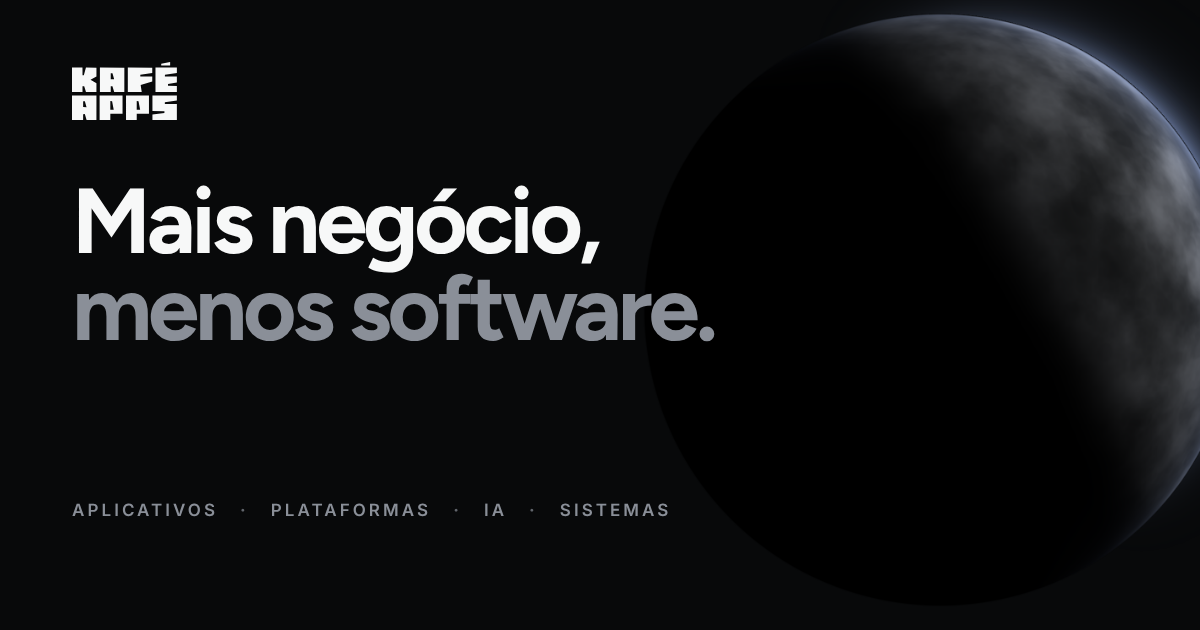
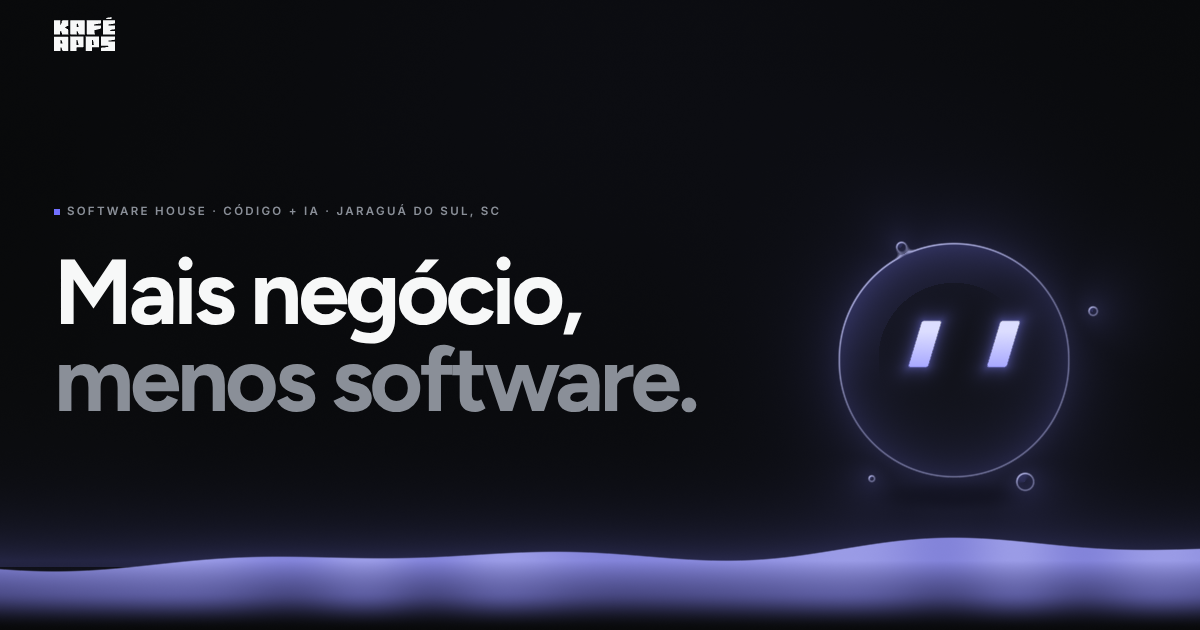
Mascote de volta, em vidro escuro no estilo do Zirtuno, com a onda de luz
- Mascote religado (site.mascot = true), com as reações e as
  transformações nas formas de cada seção.
- Acabamento novo no motor: corpo de vidro quase preto e translúcido,
  que clareia perto da borda, linha fina de luz no contorno, reflexo
  suave em cima, halo em volta e olhos "//" que brilham. As formas das
  seções usam o mesmo vidro. Cores: roxo #7c7cff e lilás #c9cbff.
- Onda de luz roxa no fim da abertura da home, com o mascote mergulhado
  nela e o "Diga oi" por cima; no celular, a onda fica logo embaixo dele.
- "(08) Quem somos" mantém a tela de entregas desde 2021, na versão roxa.
- Imagem de compartilhamento e README atualizados.

Claude-Session: https://claude.ai/code/session_01EDSy16zp7YeDkangh4hHvN

diff --git a/src/scripts/liquid.ts b/src/scripts/liquid.ts
@@ -125,7 +125,7 @@ uniform vec3 uPtr;     // cursor x, y, ativo
 uniform vec4 uHorizon; // faixa de café: topo (y), fundo (y), x do mascote, onda extra embaixo dele
 uniform vec4 uBox;     // caixa que contém o líquido (min x, min y, max x, max y)
 uniform vec3 uTint;    // cor do líquido
-uniform vec3 uInk;     // cor dos olhos
+uniform vec3 uInk;     // cor clara: olhos, linha de luz do contorno e crista da onda
 uniform vec3 uBg;      // cor do fundo da página
 uniform sampler2D uSmoke;
 
@@ -292,48 +292,59 @@ void main() {
 	// Sombra do mascote no chão (encolhe quando ele pula).
 	if (uShadow.w > 0.001) {
 		vec2 sp = (p - uShadow.xy) / vec2(uShadow.z, uShadow.z * 0.2);
-		col *= 1.0 - 0.55 * uShadow.w * (1.0 - smoothstep(0.15, 1.0, length(sp)));
+		col *= 1.0 - 0.35 * uShadow.w * (1.0 - smoothstep(0.15, 1.0, length(sp)));
 	}
 	float depth = uHorizon.x - p.y;
 	float band = max(uHorizon.x - uHorizon.y, 0.001);
 	float surfOn = step(uHorizon.y + 0.001, uHorizon.x);
-	col += uTint * exp(-abs(p.y - uHorizon.x) * 9.0) * 0.12 * surfOn * step(-0.02, -depth);
+	col += uTint * exp(-abs(p.y - uHorizon.x) * 7.0) * 0.18 * surfOn * step(-0.02, -depth);
+
+	// Halo de luz em volta das formas (o vidro "acende" o fundo de leve).
+	col += uTint * exp(-max(d, 0.0) / (uCss * 18.0)) * 0.07 * opacity * step(0.0, d);
 
 	if (d < px * 2.0) {
-		// 2D bem acabado: cor chapada, um degradê de cima para baixo e uma
-		// borda de luz do lado de cima (e sombra leve embaixo). Sem volume 3D.
-		float edgeW = uCss * 5.0;
-		float boxH = max(uBox.w - uBox.y, 0.001);
-		float top = clamp((p.y - uBox.y) / boxH, 0.0, 1.0);
-		// Quanto do ponto é superfície (e não forma): define o degradê e o sumiço para baixo.
+		// Vidro escuro, no estilo do Zirtuno: corpo quase preto e translúcido, que
+		// clareia perto da borda, uma linha fina de luz no contorno, um reflexo
+		// suave em cima e, embaixo, a onda de luz em que o mascote fica mergulhado.
+		float inside = max(-d, 0.0);
 		float isSurf = smoothstep(-0.03, 0.03, dShape - dSurf);
-		vec3 fill = uTint * mix(0.84 + 0.16 * top, 1.0 - 0.4 * smoothstep(0.0, band, depth), isSurf);
-		float reach = uExpr2.z > 0.01 ? 4.0 : 1.5;
-		if (d > -edgeW * reach) {
+		// Direção da borda (para a luz bater mais em cima, à esquerda).
+		float facing = 0.0;
+		if (inside < uCss * 40.0) {
 			float e = px;
 			float dx = smin(near < 0.45 ? field(p + vec2(e, 0.0)) : 8.0, surface(p + vec2(e, 0.0)), 0.08);
 			float dy = smin(near < 0.45 ? field(p + vec2(0.0, e)) : 8.0, surface(p + vec2(0.0, e)), 0.08);
-			vec2 grad = vec2(dx - d, dy - d);
-			vec2 n = grad / max(length(grad), 1e-5);
-			float facing = dot(n, normalize(vec2(-0.45 + uLight.x * 0.3, 0.9)));
-			float rim = 1.0 - smoothstep(0.0, edgeW, -d);
-			fill += vec3(0.16) * max(facing, 0.0) * rim;
-			fill *= 1.0 - 0.16 * max(-facing, 0.0) * rim;
-			// Gotas, mascote e café ganham o reflexo curvo de desenho animado, rente à borda de cima.
-			float glossy = max(uExpr2.z, isSurf);
-			if (glossy > 0.01) {
-				float inside = -d;
-				float shine = smoothstep(edgeW * 1.2, edgeW * 1.8, inside) * (1.0 - smoothstep(edgeW * 2.4, edgeW * 3.4, inside));
-				fill = mix(fill, vec3(1.0, 0.97, 0.92), shine * smoothstep(0.6, 0.95, facing) * 0.6 * glossy);
-			}
+			vec2 n = vec2(dx - d, dy - d);
+			n /= max(length(n), 1e-5);
+			facing = dot(n, normalize(vec2(-0.5 + uLight.x * 0.3, 0.86)));
 		}
-		float alpha = (1.0 - smoothstep(-px, px, d)) * mix(opacity, 1.0 - smoothstep(band * 0.55, band, depth), isSurf);
+		float fresnel = exp(-inside / (uCss * 30.0));
+		vec3 glass = uBg + uTint * (0.035 + 0.2 * fresnel) + vec3(0.015, 0.016, 0.02) * (1.0 - fresnel);
+		// Reflexo largo e suave do lado de cima.
+		glass += uTint * 0.12 * smoothstep(0.2, 0.95, facing) * exp(-inside / (uCss * 60.0));
+		// Linha de luz no contorno (mais forte em cima).
+		float rimLine = 1.0 - smoothstep(uCss * 0.7, uCss * 2.6, inside);
+		glass = mix(glass, uInk, rimLine * (0.45 + 0.4 * max(facing, 0.0)));
+
+		// A onda: líquido de luz, mais claro na crista, com reflexos que correm.
+		float crest = exp(-max(depth, 0.0) * 10.0);
+		float ripple = 0.5 + 0.5 * sin(p.x * 9.0 - uTime * 1.1 + sin(p.x * 3.1 + uTime * 0.6) * 1.8);
+		vec3 wave = uTint * (0.28 + 0.5 * crest + 0.18 * ripple * smoothstep(0.0, 0.2, depth) * (1.0 - smoothstep(0.2, 0.5, depth)));
+		wave = mix(wave, uInk, crest * 0.55 * (0.6 + 0.4 * ripple));
+		vec3 fill = mix(glass, wave, isSurf);
+
+		float coverage = 1.0 - smoothstep(-px, px, d);
+		float alpha = coverage * mix(opacity, 1.0 - smoothstep(band * 0.45, band, depth), isSurf);
 		col = mix(col, fill, alpha);
 	}
 
-	if (uEye.w > 0.01 && length(p - uEye.xy) < uEye.z * 1.4) {
+	// Olhos que brilham: degradê do claro (em cima) para a cor da forma, com halo.
+	if (uEye.w > 0.01 && length(p - uEye.xy) < uEye.z * 1.6) {
 		float ed = eyes(p);
-		col = mix(col, uInk, (1.0 - smoothstep(-px, px, ed)) * uEye.w);
+		float t = clamp((p.y - uEye.xy.y) / (uEye.z * 0.5) + 0.5, 0.0, 1.0);
+		vec3 eyeCol = mix(uTint * 1.1, mix(uInk, vec3(1.0), 0.35), t);
+		col += uTint * exp(-max(ed, 0.0) / (uEye.z * 0.06)) * 0.35 * uEye.w * step(0.0, ed);
+		col = mix(col, eyeCol, (1.0 - smoothstep(-px, px, ed)) * uEye.w);
 	}
 
 	col += (hash(gl_FragCoord.xy + fract(uTime * 7.0) * 100.0) - 0.5) / 255.0;
@@ -1842,16 +1853,20 @@ export function initLiquid(canvas: HTMLCanvasElement) {
 
 	/** Faixa de café no fim da seção marcada com data-horizon (o mascote nasce dela). */
 	function horizon(): [number, number, number, number] {
-		if (!horizonEl || solid) return [0, 0, 0, 0];
-		const r = horizonEl.getBoundingClientRect();
-		if (r.bottom < -40 || r.top > cssH) return [0, 0, 0, 0];
+		// No estilo sólido, a onda de luz fica só na abertura da home.
+		if (!horizonEl || (solid && !horizonEl.classList.contains('hero'))) return [0, 0, 0, 0];
 		const portrait = aspect < 0.9;
+		// No celular, a onda fica logo embaixo do mascote (data-horizon-anchor), e não no fim da seção.
+		const anchorEl = portrait ? horizonEl.querySelector<HTMLElement>('[data-horizon-anchor]') : null;
+		const r = (anchorEl ?? horizonEl).getBoundingClientRect();
+		if (r.bottom < -40 || r.top > cssH) return [0, 0, 0, 0];
 		const bottom = 1 - (r.bottom / cssH) * 2;
 		// data-horizon="0.1": altura da faixa (em unidades do WebGL) acima do fim da seção.
 		const custom = horizonEl.dataset.horizon;
 		const lift = custom ? Number(custom) : portrait ? 0.2 : 0.22;
 		const mascotHere = Boolean(formation.def.eyes) && eye.alpha > 0.05;
-		const bump = mascotHere ? 0.07 * eye.alpha : 0;
+		// A onda sobe um pouco embaixo do mascote, que fica mergulhado nela.
+		const bump = mascotHere ? 0.08 * eye.alpha : 0;
 		return [bottom + lift, bottom, mascotHere ? slots[0].v[0] : 0, bump];
 	}
 

diff --git a/src/styles/global.css b/src/styles/global.css
@@ -48,10 +48,11 @@
 	--black: var(--bg);
 	--white: var(--text);
 
-	/* Mascote (desligado por padrão: veja "mascot" em src/data/site.ts): cor do
-	   corpo e dos olhos "//", e o fundo desenhado pelo WebGL. Hex de 6 dígitos. */
-	--liquid: #f4a957;
-	--liquid-ink: #1b120c;
+	/* Mascote e formas, em vidro escuro como o do Zirtuno (ligue ou desligue em
+	   src/data/site.ts): a cor da luz do vidro e da onda, e a cor clara dos olhos
+	   "//", do contorno e da crista da onda. Hex de 6 dígitos. */
+	--liquid: #7c7cff;
+	--liquid-ink: #c9cbff;
 	--liquid-bg: #08090a;
 
 	--gray-100: #f7f8f8;
@@ -640,7 +641,7 @@ ol[role='list'] {
 	width: 4px;
 	height: 11px;
 	border-radius: 1px;
-	background: var(--text);
+	background: var(--accent);
 	transform: skewX(-16deg);
 	animation: talk-blink 4s infinite;
 }

diff --git a/src/data/site.ts b/src/data/site.ts
@@ -23,10 +23,10 @@ export const site = {
 	foundingYear: 2021,
 	/**
 	 * Mascote interativo: o líquido em WebGL com olhos "//", reações, falas e as
-	 * formas que ele vira em cada seção. Desligado, o topo da home mostra o planeta
-	 * e as seções mostram telas de produto. Para trazer o mascote de volta, use true.
+	 * formas que ele vira em cada seção. Desligado (false), o topo da home mostra
+	 * um planeta e as seções mostram telas de produto.
 	 */
-	mascot: false,
+	mascot: true,
 	ceo: 'Danilo Fonseca',
 	location: {
 		city: 'Jaraguá do Sul',

diff --git a/README.md b/README.md
@@ -4,22 +4,22 @@ Site institucional da [Kafé Apps](https://kafeapps.com.br): software house de J
 
 Feito com [Astro](https://astro.build), gera um site 100% estático (HTML, CSS e um pouco de JavaScript): rápido, bom para SEO e fácil de hospedar em qualquer lugar.
 
-## Identidade visual: Linear nas cores, SpaceX no topo, telas de produto nas seções
+## Identidade visual: cores do Linear e mascote de vidro no estilo do Zirtuno
 
-- **Cores do [Linear](https://linear.app)**, com os mesmos valores que o site deles usa: fundo `#08090a`, texto `#f7f8f8`, cinzas `#d0d6e0`, `#8a8f98` e `#62666d`, bordas brancas a 8% e 12%, botão principal em pílula clara (`#e5e5e6`, texto `#08090a`) e o roxo da marca (`#5e6ad2`) com o destaque `#7170ff` nos detalhes. Os títulos têm dois tons: branco e, no trecho entre `<em>`, cinza.
+- **Cores do [Linear](https://linear.app)**, com os mesmos valores que o site deles usa: fundo `#08090a`, texto `#f7f8f8`, cinzas `#d0d6e0`, `#8a8f98` e `#62666d`, bordas brancas a 8% e 12%, botão principal em pílula clara (`#e5e5e6`, texto `#08090a`) e o roxo da marca (`#5e6ad2`) com o destaque `#7170ff`. Os títulos têm dois tons: branco e, no trecho entre `<em>`, cinza.
 - O cinza `#62666d`, que o Linear usa em rótulos minúsculos, não passa no contraste mínimo para texto; aqui ele fica só em detalhes, e os textos secundários usam `#8a8f98`.
-- **Topo da home: um planeta** escuro com luz realista, como na SpaceX (`src/components/Planet.astro` e `src/scripts/planet.ts`). Ele gira devagar e a luz acompanha o cursor de leve; com "reduzir movimento" fica parado, e sem WebGL aparece a imagem `public/planeta.jpg`. O mesmo planeta aparece na página 404.
-- **Seções: telas de produto** no estilo do Linear (`src/components/Figure.astro`): roadmap, painel de métricas, revisão de código, agente de IA, sprint nas 4Ds, histórico de entregas, pré-orçamento, app, automações e design system. Cada seção escolhe a sua em `src/data/figures.ts`. São ilustrações: ficam escondidas dos leitores de tela.
-- **Pré-orçamento sem mascote:** a Kafeína fala dentro do cartão do formulário e, no computador, um painel ao lado resume as respostas.
+- **Mascote e ilustrações em vidro escuro**, no mesmo design do mascote do Zirtuno: corpo quase preto e translúcido que clareia perto da borda, uma linha fina de luz no contorno, reflexo suave em cima, olhos "//" que brilham com halo e, na abertura da home, uma onda de luz roxa em que o mascote fica mergulhado (com o "Diga oi" por cima dela). As formas que ele vira em cada seção usam o mesmo vidro.
+- No "(08) Quem somos" da home, no lugar da forma do líquido, fica a tela "Entregas em produção desde 2021" (`src/components/Figure.astro`).
+- Cores do vidro no topo de `src/styles/global.css`: `--liquid` (luz do vidro e da onda, `#7c7cff`), `--liquid-ink` (olhos, contorno e crista da onda, `#c9cbff`) e `--liquid-bg` (fundo desenhado pelo WebGL, igual a `--bg`).
 
-### O mascote (desligado, guardado para voltar)
+### Ligar e desligar o mascote
 
-O mascote interativo continua no código, inteiro: o líquido em WebGL com os olhos "//", reações, falas, o "Diga oi" e as formas que ele vira em cada seção. Para trazê-lo de volta, troque `mascot: false` por `mascot: true` em `src/data/site.ts`. As cores dele ficam em `--liquid` e `--liquid-ink`, no topo de `src/styles/global.css` (hoje com a crema `#f4a957`, a versão aprovada).
+O mascote fica ligado em `mascot: true`, em `src/data/site.ts`. Com `false`, o topo da home mostra um planeta (`src/components/Planet.astro`) e as seções mostram telas de produto (`src/components/Figure.astro`, escolhidas em `src/data/figures.ts`); no pré-orçamento, a Kafeína fala dentro do cartão e um painel resume as respostas.
 
 ## Destaques
 
-- **Líquido que explica o conteúdo (WebGL, só com o mascote ligado)**: um único corpo de líquido, em estilo 2D sólido, acompanha a navegação e vira o desenho do que está escrito: um relógio no problema do tempo, barras de crescimento na virada, um ciclo na metodologia, o K da Kafé no "Sobre" e uma xícara no convite final. Cada forma tem um espaço reservado no layout, rola junto com o conteúdo e nunca fica por cima do texto. Nos cartões de serviço, basta passar o mouse para o líquido virar celular, navegador, IA, foguete, rede ou layout. Veja "Formas do líquido" abaixo.
-- **Mascote com personalidade (desligado por padrão)**: no início da home (e tristinho na página 404), com os olhos em "//" inspirados nos recortes do K. Ele acompanha o cursor, pisca, olha para onde a pessoa clica e muda de expressão:
+- **Líquido que explica o conteúdo (WebGL)**: um único corpo de líquido, em vidro escuro com borda de luz, acompanha a navegação e vira o desenho do que está escrito: um relógio no problema do tempo, barras de crescimento na virada, um ciclo na metodologia, o K da Kafé no "Sobre" e uma xícara no convite final. Cada forma tem um espaço reservado no layout, rola junto com o conteúdo e nunca fica por cima do texto. Nos cartões de serviço, basta passar o mouse para o líquido virar celular, navegador, IA, foguete, rede ou layout. Veja "Formas do líquido" abaixo.
+- **Mascote com personalidade**: no início da home (e tristinho na página 404), com os olhos em "//" inspirados nos recortes do K. Ele acompanha o cursor, pisca, olha para onde a pessoa clica e muda de expressão:
   - clique: uma reação diferente a cada vez (feliz, piscadinha, surpreso, apaixonado); cliques demais o deixam tonto e depois bravo;
   - clique duplo: cambalhota; toque longo (celular): enche de ar;
   - arrastar (mouse): puxa-puxa. O corpo fica no lugar e se inclina, e o pedaço que você segura sai dele preso por um "pescoço" que afina e resiste conforme estica (perto do limite, ele treme de esforço). Ao soltar, a ponta volta num estalo e o corpo achata, balança e assenta;
